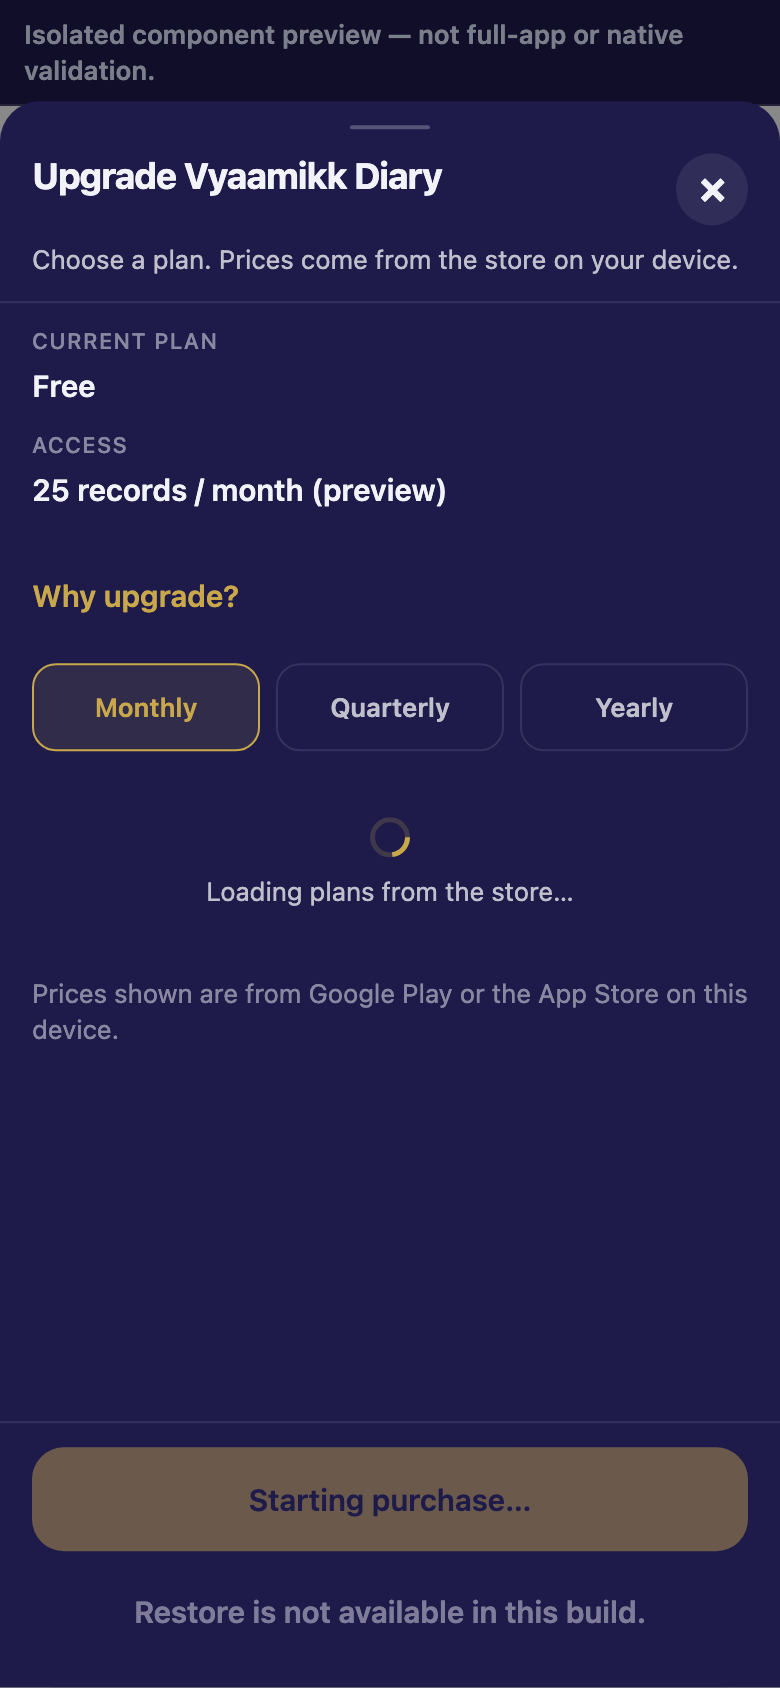
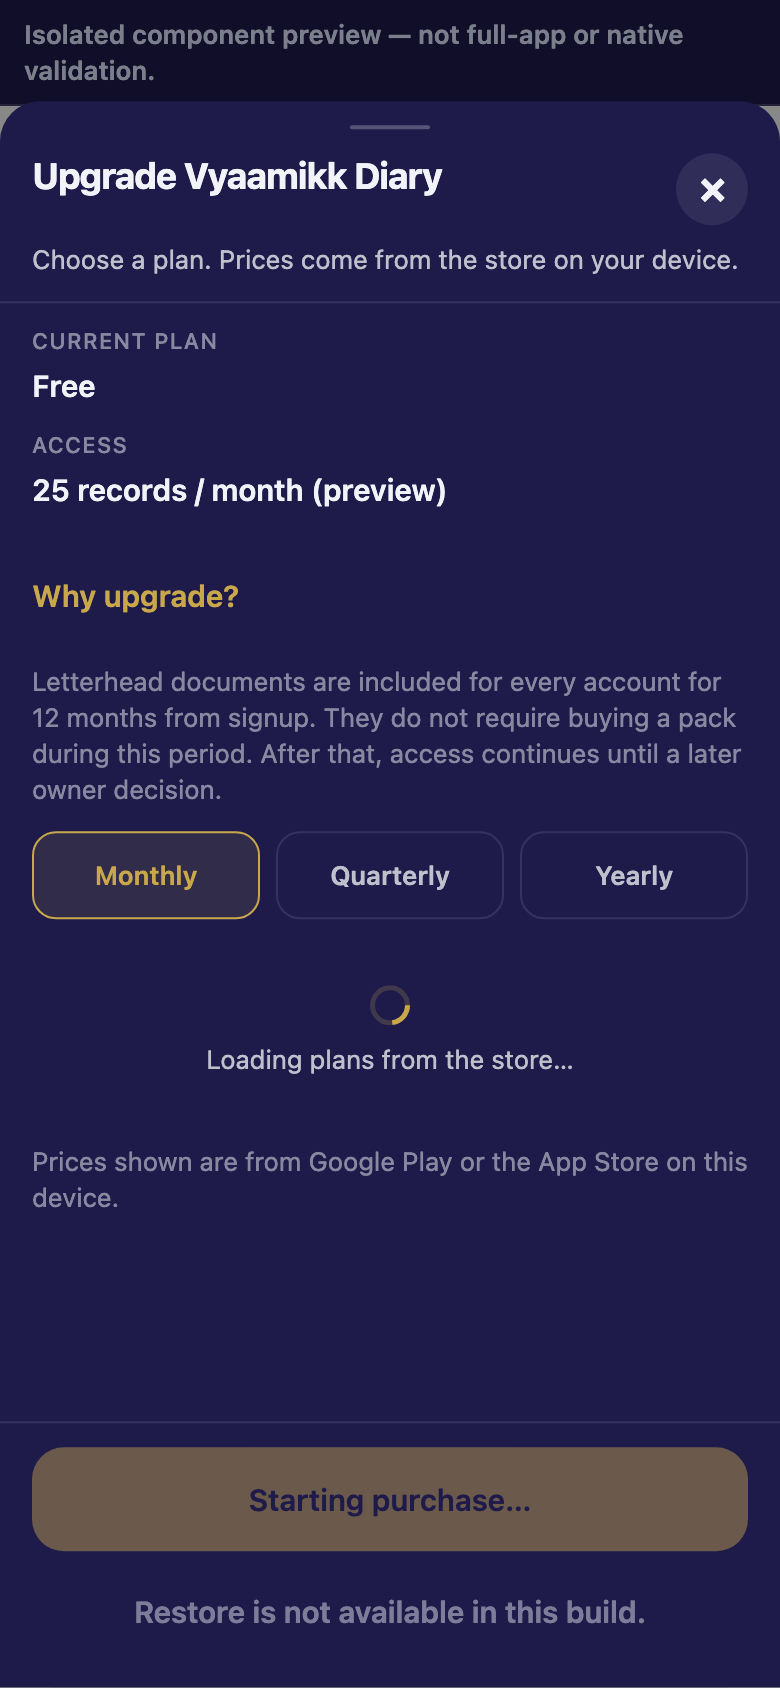
VYD-37: recapture UpgradeSheet after the included-letterhead note.
Isolated harness evidence must show the approved free-period copy on the visible sheet, not only in source.

diff --git a/tools/billing-ux-harness/captures/isolated-contact-sheet.html b/tools/billing-ux-harness/captures/isolated-contact-sheet.html
@@ -9,7 +9,7 @@ figcaption{margin-top:6px;word-break:break-word}
 .banner{padding:12px 16px;background:#1E1B4B}
 </style>
 <p class="banner">Isolated component preview — not full-app or native validation.</p>
-<h1>VYD-37 isolated captures · f0842e2cd703</h1>
+<h1>VYD-37 isolated captures · f81a7d252ad2</h1>
 <div class="grid"><figure><img src="isolated-hub-en.png" alt="hub-en-phone-390x844" /><figcaption>isolated-hub-en.png<br/>hub-en-phone-390x844<br/>390×844 dpr=2 lang=en</figcaption></figure>
 <figure><img src="isolated-hub-en-scrolled.png" alt="hub-en-scrolled-end" /><figcaption>isolated-hub-en-scrolled.png<br/>hub-en-scrolled-end<br/>390×844 dpr=2 lang=en</figcaption></figure>
 <figure><img src="isolated-hub-en-narrow.png" alt="hub-en-narrow-320x720" /><figcaption>isolated-hub-en-narrow.png<br/>hub-en-narrow-320x720<br/>320×720 dpr=2 lang=en</figcaption></figure>
